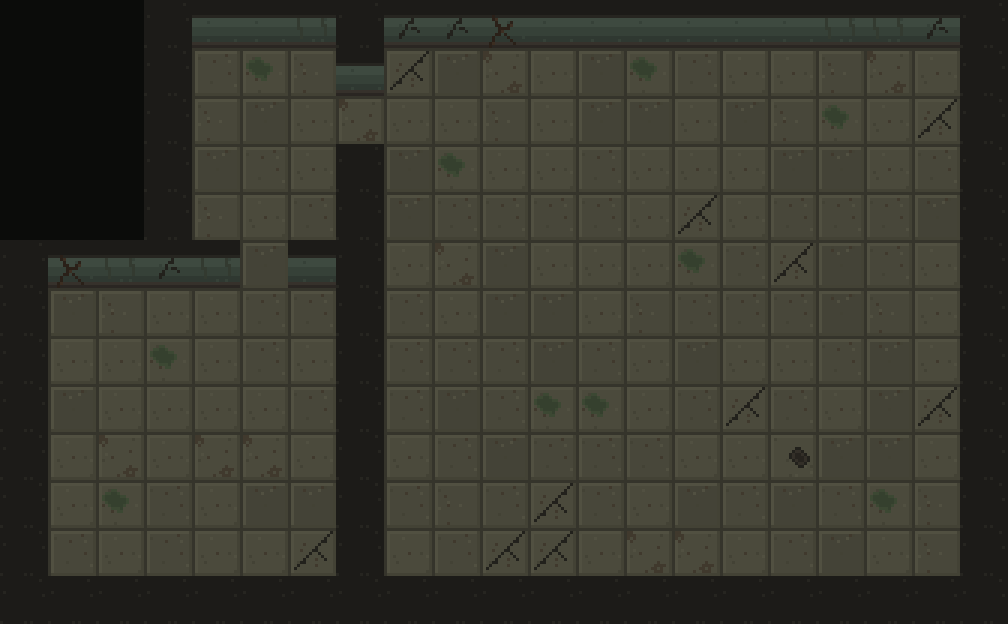
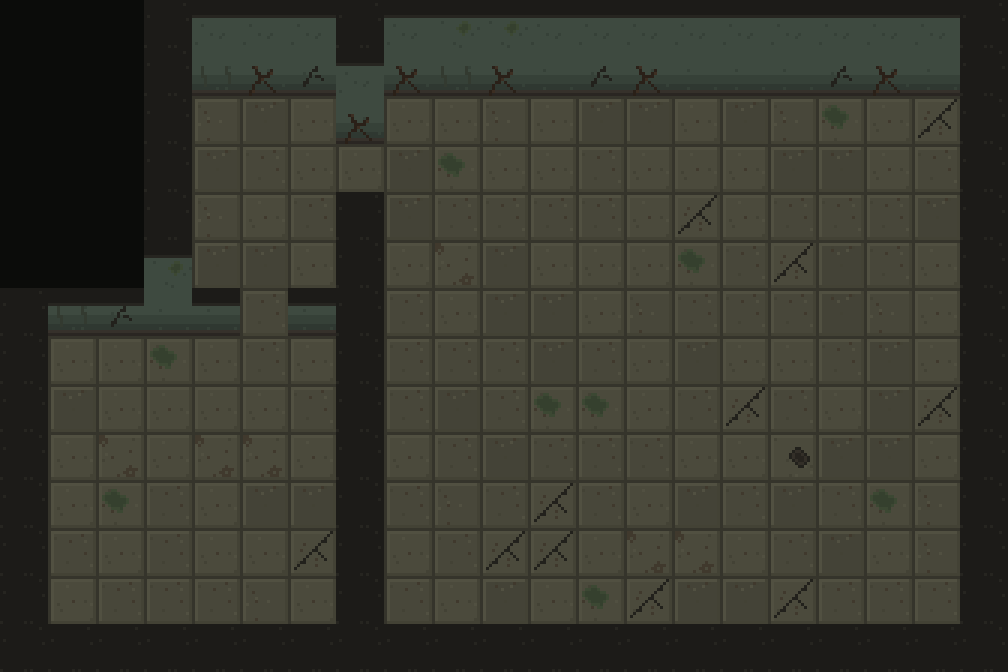
Make the store's back wall two tiles tall
The characters are two tiles tall, so a one-tile back wall looked low next
to them. The store map gains a wall row at the top and every store prop
moves down one. The tileset gets top and bottom halves for two-tile walls;
a wall face with more wall above it draws as the bottom half.

diff --git a/src/game/rooms.ts b/src/game/rooms.ts
@@ -35,11 +35,14 @@ export interface RoomDef {
 }
 
 /**
- * Frames in a room tileset. Row 0 is floor, row 1 is wall. Each list is frame and weight;
+ * Frames in a room tileset. Row 0 is floor; row 1 is the wall top, one-tile wall faces and
+ * the top halves of two-tile walls; row 2 is the bottom halves. Each list is frame and weight;
  * a tile's spot in the room picks one, so the same room always looks the same.
  */
 export const FLOOR_FRAMES: [number, number][] = [[0, 30], [1, 28], [6, 18], [7, 10], [2, 4], [3, 4], [4, 4], [5, 2]];
 export const WALL_FACE_FRAMES: [number, number][] = [[9, 55], [10, 18], [11, 13], [12, 14]];
+export const WALL_UPPER_FRAMES: [number, number][] = [[13, 80], [14, 20]];
+export const WALL_LOWER_FRAMES: [number, number][] = [[16, 60], [17, 18], [18, 12], [19, 10]];
 export const WALL_TOP_FRAME = 8;
 
 export function pickFrame(tx: number, ty: number, frames: [number, number][]): number {
@@ -87,6 +90,7 @@ export const ROOMS: Record<RoomId, RoomDef> = {
     // back office below it, the shop floor on the right.
     map: [
       "   ##################",
+      "   ##################",
       "   #...#............#",
       "   #................#",
       "   #...#............#",
@@ -102,37 +106,37 @@ export const ROOMS: Record<RoomId, RoomDef> = {
     ],
     props: [
       // Hallway
-      { id: "boxes", label: "Boxes", x: 4, y: 1, w: 1, h: 2, verb: "", color: 0x5e5240, decor: true },
-      { id: "broom", label: "Broom", x: 6, y: 4, w: 1, h: 1, verb: "", color: 0x5a4a32, decor: true },
+      { id: "boxes", label: "Boxes", x: 4, y: 2, w: 1, h: 2, verb: "", color: 0x5e5240, decor: true },
+      { id: "broom", label: "Broom", x: 6, y: 5, w: 1, h: 1, verb: "", color: 0x5a4a32, decor: true },
       // Back office
-      { id: "rack", label: "Rack\nR1 S1", x: 1, y: 6, w: 2, h: 1, verb: "Work on", color: 0x3c4450 },
-      { id: "storage", label: "Storage", x: 3, y: 6, w: 1, h: 1, verb: "", color: 0x50504a, decor: true },
-      { id: "files", label: "Files", x: 1, y: 8, w: 1, h: 2, verb: "", color: 0x50504a, decor: true },
-      { id: "files", label: "Files", x: 6, y: 7, w: 1, h: 2, verb: "", color: 0x50504a, decor: true },
-      { id: "desk", label: "Desk", x: 6, y: 9, w: 1, h: 2, verb: "Look at", color: 0x55524a },
-      { id: "office", label: "PC1", x: 6, y: 9, w: 1, h: 1, verb: "Use", color: 0x46504a },
-      { id: "chair", label: "Chair", x: 5, y: 10, w: 1, h: 1, verb: "", color: 0x4a3a44, decor: true },
-      { id: "storage", label: "Storage", x: 1, y: 11, w: 1, h: 1, verb: "", color: 0x50504a, decor: true },
-      { id: "boxes", label: "Boxes", x: 2, y: 11, w: 1, h: 1, verb: "", color: 0x5e5240, decor: true },
+      { id: "rack", label: "Rack\nR1 S1", x: 1, y: 7, w: 2, h: 1, verb: "Work on", color: 0x3c4450 },
+      { id: "storage", label: "Storage", x: 3, y: 7, w: 1, h: 1, verb: "", color: 0x50504a, decor: true },
+      { id: "files", label: "Files", x: 1, y: 9, w: 1, h: 2, verb: "", color: 0x50504a, decor: true },
+      { id: "files", label: "Files", x: 6, y: 8, w: 1, h: 2, verb: "", color: 0x50504a, decor: true },
+      { id: "desk", label: "Desk", x: 6, y: 10, w: 1, h: 2, verb: "Look at", color: 0x55524a },
+      { id: "office", label: "PC1", x: 6, y: 10, w: 1, h: 1, verb: "Use", color: 0x46504a },
+      { id: "chair", label: "Chair", x: 5, y: 11, w: 1, h: 1, verb: "", color: 0x4a3a44, decor: true },
+      { id: "storage", label: "Storage", x: 1, y: 12, w: 1, h: 1, verb: "", color: 0x50504a, decor: true },
+      { id: "boxes", label: "Boxes", x: 2, y: 12, w: 1, h: 1, verb: "", color: 0x5e5240, decor: true },
       // Shop floor
-      { id: "cooler", label: "Fridges", x: 9, y: 1, w: 8, h: 1, verb: "Look at", color: 0x4a5a66 },
-      { id: "jack", label: "Jack", x: 7, y: 4, w: 1, h: 1, verb: "Look at", color: 0x3a3a36, onWall: true },
-      { id: "baskets", label: "Baskets", x: 18, y: 1, w: 1, h: 1, verb: "", color: 0x5a3a3a, decor: true },
-      { id: "baskets", label: "Baskets", x: 8, y: 4, w: 1, h: 1, verb: "", color: 0x5a3a3a, decor: true },
-      { id: "shelf1", label: "Wall\nshelf", x: 8, y: 6, w: 1, h: 4, verb: "Look at", color: 0x5a5244 },
-      { id: "shelf1", label: "Shelf", x: 10, y: 5, w: 1, h: 4, verb: "Look at", color: 0x5a5244 },
-      { id: "shelf2", label: "Shelf", x: 12, y: 5, w: 1, h: 4, verb: "Look at", color: 0x5a5244 },
-      { id: "shelf1", label: "Shelf", x: 14, y: 5, w: 1, h: 4, verb: "Look at", color: 0x5a5244 },
-      { id: "register", label: "Register\nPC0", x: 18, y: 3, w: 1, h: 1, verb: "Use", color: 0x46504a },
-      { id: "counter", label: "Counter", x: 18, y: 4, w: 1, h: 3, verb: "Lean on", color: 0x5a5448 },
-      { id: "finch", label: "Mrs.\nFinch", x: 19, y: 4, w: 1, h: 1, verb: "Talk to", color: 0x6a5a7a, sprite: "mrs-finch" },
-      { id: "shelf2", label: "Wall\nshelf", x: 19, y: 8, w: 1, h: 2, verb: "Look at", color: 0x5a5244 },
-      { id: "bins", label: "Bins", x: 19, y: 10, w: 1, h: 2, verb: "", color: 0x3a3a36, decor: true },
-      { id: "boxes", label: "Boxes", x: 17, y: 11, w: 1, h: 1, verb: "", color: 0x5e5240, decor: true },
-      { id: "baskets", label: "Baskets", x: 8, y: 11, w: 2, h: 1, verb: "", color: 0x5a3a3a, decor: true },
-      { id: "exit", label: "Door", x: 14, y: 12, w: 2, h: 1, verb: "Leave", color: 0x3a3428, onWall: true },
+      { id: "cooler", label: "Fridges", x: 9, y: 2, w: 8, h: 1, verb: "Look at", color: 0x4a5a66 },
+      { id: "jack", label: "Jack", x: 7, y: 5, w: 1, h: 1, verb: "Look at", color: 0x3a3a36, onWall: true },
+      { id: "baskets", label: "Baskets", x: 18, y: 2, w: 1, h: 1, verb: "", color: 0x5a3a3a, decor: true },
+      { id: "baskets", label: "Baskets", x: 8, y: 5, w: 1, h: 1, verb: "", color: 0x5a3a3a, decor: true },
+      { id: "shelf1", label: "Wall\nshelf", x: 8, y: 7, w: 1, h: 4, verb: "Look at", color: 0x5a5244 },
+      { id: "shelf1", label: "Shelf", x: 10, y: 6, w: 1, h: 4, verb: "Look at", color: 0x5a5244 },
+      { id: "shelf2", label: "Shelf", x: 12, y: 6, w: 1, h: 4, verb: "Look at", color: 0x5a5244 },
+      { id: "shelf1", label: "Shelf", x: 14, y: 6, w: 1, h: 4, verb: "Look at", color: 0x5a5244 },
+      { id: "register", label: "Register\nPC0", x: 18, y: 4, w: 1, h: 1, verb: "Use", color: 0x46504a },
+      { id: "counter", label: "Counter", x: 18, y: 5, w: 1, h: 3, verb: "Lean on", color: 0x5a5448 },
+      { id: "finch", label: "Mrs.\nFinch", x: 19, y: 5, w: 1, h: 1, verb: "Talk to", color: 0x6a5a7a, sprite: "mrs-finch" },
+      { id: "shelf2", label: "Wall\nshelf", x: 19, y: 9, w: 1, h: 2, verb: "Look at", color: 0x5a5244 },
+      { id: "bins", label: "Bins", x: 19, y: 11, w: 1, h: 2, verb: "", color: 0x3a3a36, decor: true },
+      { id: "boxes", label: "Boxes", x: 17, y: 12, w: 1, h: 1, verb: "", color: 0x5e5240, decor: true },
+      { id: "baskets", label: "Baskets", x: 8, y: 12, w: 2, h: 1, verb: "", color: 0x5a3a3a, decor: true },
+      { id: "exit", label: "Door", x: 14, y: 13, w: 2, h: 1, verb: "Leave", color: 0x3a3428, onWall: true },
     ],
-    spawn: { x: 14, y: 11 },
+    spawn: { x: 14, y: 12 },
     tiles: "store-tiles",
   },
 };

diff --git a/src/game/room-scene.ts b/src/game/room-scene.ts
@@ -1,5 +1,17 @@
 import Phaser from "phaser";
-import { FLOOR_FRAMES, pickFrame, ROOMS, TILE, WALL_FACE_FRAMES, WALL_TOP_FRAME, type Prop, type RoomDef, type RoomId } from "./rooms";
+import {
+  FLOOR_FRAMES,
+  pickFrame,
+  ROOMS,
+  TILE,
+  WALL_FACE_FRAMES,
+  WALL_LOWER_FRAMES,
+  WALL_TOP_FRAME,
+  WALL_UPPER_FRAMES,
+  type Prop,
+  type RoomDef,
+  type RoomId,
+} from "./rooms";
 import { events, type Story } from "./story";
 import type { Ui } from "./ui";
 
@@ -60,8 +72,13 @@ export class RoomScene extends Phaser.Scene {
         if (ch === " ") return;
         const tiles = this.room.tiles;
         if (tiles) {
-          const faceBelow = ch === "#" && this.room.map[ty + 1]?.[tx] === ".";
-          const frame = ch !== "#" ? pickFrame(tx, ty, FLOOR_FRAMES) : faceBelow ? pickFrame(tx, ty, WALL_FACE_FRAMES) : WALL_TOP_FRAME;
+          // A wall with floor below shows its face. If more wall sits above it, the face is two
+          // tiles tall: this is the bottom half and the tile above draws the top half.
+          const at = (dy: number) => this.room.map[ty + dy]?.[tx] ?? " ";
+          let frame = WALL_TOP_FRAME;
+          if (ch !== "#") frame = pickFrame(tx, ty, FLOOR_FRAMES);
+          else if (at(1) === ".") frame = pickFrame(tx, ty, at(-1) === "#" ? WALL_LOWER_FRAMES : WALL_FACE_FRAMES);
+          else if (at(1) === "#" && at(2) === ".") frame = pickFrame(tx, ty, WALL_UPPER_FRAMES);
           this.add.image(x, y, tiles, frame).setOrigin(0).setScale(TILE / 16);
           if (ch === "#") solid(x, y, TILE, TILE);
         } else if (ch === "#") {
@@ -157,11 +174,11 @@ export class RoomScene extends Phaser.Scene {
     const g = this.add.graphics().setDepth(2);
     g.lineStyle(4, 0x2a6a8a, 1);
     g.beginPath();
-    g.moveTo(9.15 * TILE, 2 * TILE);
-    g.lineTo(9.15 * TILE, 2.4 * TILE);
-    g.lineTo(8.1 * TILE, 2.6 * TILE);
-    g.lineTo(8.1 * TILE, 4.5 * TILE);
-    g.lineTo(8 * TILE, 4.5 * TILE);
+    g.moveTo(9.15 * TILE, 3 * TILE);
+    g.lineTo(9.15 * TILE, 3.4 * TILE);
+    g.lineTo(8.1 * TILE, 3.6 * TILE);
+    g.lineTo(8.1 * TILE, 5.5 * TILE);
+    g.lineTo(8 * TILE, 5.5 * TILE);
     g.strokePath();
   }
 

diff --git a/HANDOFF.md b/HANDOFF.md
@@ -72,7 +72,7 @@ Phase 1 (the simulator) still has gaps:
 
 Unverified against real gear (best recollection, check when someone has a Catalyst handy): the error text for `no interface` on a physical port, and whether a subinterface shows "administratively down" when only its parent is shut. From IOS 15 docs and memory rather than a capture (Ant's CML only runs IOL, IOS XE 17): the 2911 `show running-config` skeleton (no license udi, redundancy, Embedded-Service-Engine0/0, line 2 or scheduler lines yet) and the 2911/2960 hardware and media lines in `show interfaces`. Frame byte counts and the 5-minute rates are approximate. The 2960 keeps `Administrative Trunking Encapsulation: dot1q` and `Native VLAN tagging: enabled` (IOL says negotiate/disabled, but a 2960 only does dot1q). Answering yes to the setup dialog backs out as if Ctrl-C was pressed; the setup facility isn't simulated. Boot doesn't print the post-boot log burst (%SYS-5-RESTART, interface logs) yet.
 
-Phase 2 is the vertical slice. Ant picked 16 px art (drawn at 4x) and Phaser on 2026-10-18. The grey-box corner store is built (`src/game/`, branch `claude/corner-store-slice`): home base with the walkie-talkie (Walter), Gary's locked door, the job board and Bob's desk; the shop with Mrs. Finch, the register and back office PCs, the rack (console into R1 or S1) and a port panel where you can pull and replug cables. The work order ticks off from the live network. When it's all done, a phantom PC (MAC 6666.6666.6666, 192.168.1.66) plugs into S1 Fa0/24 through the wall behind the cooler and pings the register now and then, the lights flicker, and the job report's BOUNDARY INTEGRITY line fades. The town sign goes from 4,218 to 4,219 on the way home. `src/game/story.ts` holds every line and trigger. Sprites in so far: the contractor's walk and Mrs. Finch (stage 1, calm), both 16x32 sheets in `public/assets/sprites/characters/`. A prop with `sprite` set in `rooms.ts` draws that sheet's first frame instead of a grey box. The shop follows Ant's blueprint (`art/concepts/locations/mrs-finch-store-layout.jpg`): 21x13 tiles with the hallway and back office on the left (the rack and PC1 are in the office now), fridges along the back wall with the wall jack beside them, three shelf aisles, and the counter on the right. The camera follows you in rooms bigger than the screen, and props marked `decor` block you without an E prompt. The shop's floor and walls come from `public/assets/sprites/tiles/store-tiles.png` (frame layout and weights in `rooms.ts`); the office is still flat grey. Mrs. Finch stands behind the counter but doesn't walk yet; her stage 2 and 3 versions aren't drawn. Still to do: the rest of Ant's sprites (spec in the shared `design/art-spec-corner-store.md`, PNGs land in the shared `art/` folder), the home lab, a sanity meter, sound, and saving progress.
+Phase 2 is the vertical slice. Ant picked 16 px art (drawn at 4x) and Phaser on 2026-10-18. The grey-box corner store is built (`src/game/`, branch `claude/corner-store-slice`): home base with the walkie-talkie (Walter), Gary's locked door, the job board and Bob's desk; the shop with Mrs. Finch, the register and back office PCs, the rack (console into R1 or S1) and a port panel where you can pull and replug cables. The work order ticks off from the live network. When it's all done, a phantom PC (MAC 6666.6666.6666, 192.168.1.66) plugs into S1 Fa0/24 through the wall behind the cooler and pings the register now and then, the lights flicker, and the job report's BOUNDARY INTEGRITY line fades. The town sign goes from 4,218 to 4,219 on the way home. `src/game/story.ts` holds every line and trigger. Sprites in so far: the contractor's walk and Mrs. Finch (stage 1, calm), both 16x32 sheets in `public/assets/sprites/characters/`. A prop with `sprite` set in `rooms.ts` draws that sheet's first frame instead of a grey box. The shop follows Ant's blueprint (`art/concepts/locations/mrs-finch-store-layout.jpg`): 21x14 tiles (the back wall is two tiles tall) with the hallway and back office on the left (the rack and PC1 are in the office now), fridges along the back wall with the wall jack beside them, three shelf aisles, and the counter on the right. The camera follows you in rooms bigger than the screen, and props marked `decor` block you without an E prompt. The shop's floor and walls come from `public/assets/sprites/tiles/store-tiles.png` (frame layout and weights in `rooms.ts`); the office is still flat grey. Mrs. Finch stands behind the counter but doesn't walk yet; her stage 2 and 3 versions aren't drawn. Still to do: the rest of Ant's sprites (spec in the shared `design/art-spec-corner-store.md`, PNGs land in the shared `art/` folder), the home lab, a sanity meter, sound, and saving progress.
 
 ## Open questions for Ant
 
